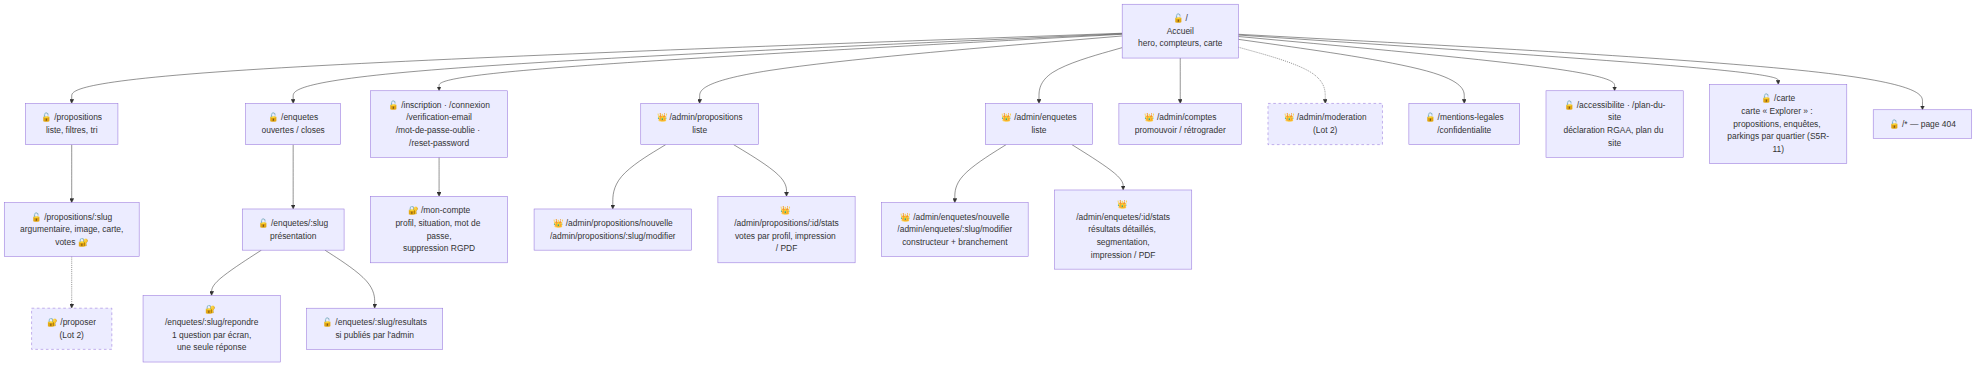
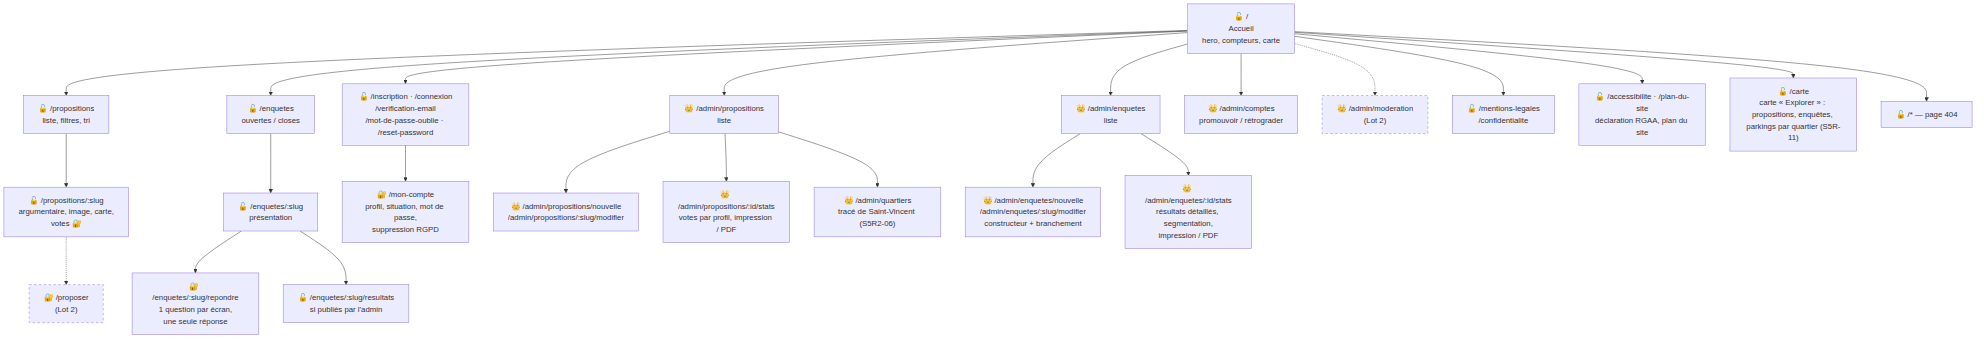
docs: S5R2-06 livrée — Saint-Vincent, outil de tracé, précision du 12/10

diff --git a/16-kanban-issues-complet.md b/16-kanban-issues-complet.md
@@ -44,6 +44,8 @@
 >
 > **S5R2-02 livrée** (12/10/2026) : table `OptionCondition` (migration `option_conditions`) ; moteur `surveyPath` (questions affichées ET options proposées ; question sans option proposée sautée ; choix non proposé ignoré), copie navigateur vérifiée **identique** par un test ; option non proposée refusée à l'envoi et en mode test (400) ; résultats : `offeredTo` (« proposée à N personnes ») ; constructeur : « + Proposer seulement si… » sous chaque option (questions antérieures seulement), nettoyage et déplacements tenant compte des conditions d'options ; modèles d'enquête : `showIf` sur une option ; options nommées pour les lecteurs d'écran.
 >
+> **S5R2-06 livrée** (12/10/2026) : quartier `SAINT_VINCENT` (migration `saint_vincent`, liste commune `api/src/lib/quartiers.js`) accepté partout — profil, zone d'une proposition, public visé, synchronisation ; « un autre quartier de Senlis (dont Saint-Vincent) » ; profils existants inchangés. Les contours sont désormais repérés par **quartier** (`properties.quartier`, `quartierOfFeature`) et non plus par code IRIS (deux quartiers partagent celui du centre). Outil `/admin/quartiers` : plan municipal en surimpression (image locale, transparence, calage), tracé au clic ou au clavier, découpage exact avec `polygon-clipping` (Saint-Vincent = centre INSEE ∩ tracé, Centre historique = centre − tracé ; débordement ignoré et mesuré — précision du 12/10), téléchargement du nouveau `iris-senlis.geojson` à placer dans le dépôt. **Reste à faire par Nath** : tracer Saint-Vincent et publier le fichier (tant qu'il n'est pas remplacé, tout le centre s'affiche comme Centre historique). Au passage : les boutons désactivés se voient enfin désactivés (tout le site).
+>
 > **Légende** : ✅ livré (mergé sur `dev`) · 🔶 partiellement livré · sans marque = à faire.
 >
 > **Gabarit d'issue** (à enregistrer comme template GitHub) : *Contexte* (lien cahier des charges) · *Critères d'acceptation* (cases à cocher) · *Definition of Done rappelée*.
@@ -207,7 +209,7 @@
 | **S5R2-12** | **`feat(client): modèles en premier — « Partir d'un modèle » placé en tête du formulaire d'enquête (avant le titre), et modèles de proposition (aménagement de l'espace public, mobilité et stationnement, végétalisation, animation ou événement) en tête du formulaire de proposition : titre, accroche et argumentaire structuré (contexte, ce qui changerait, pour qui, questions ouvertes) préremplis`** ✅ | **`lot:1` `type:feature` `zone:client`** | **`feat/templates-first`** | **1 j** | **J89** |
 | **S5R2-13** | **`feat(client): sauvegarde automatique des saisies en cours — l'enquête ou la proposition en cours de création ou de modification (admin, Admin-test) et les réponses déjà données à une enquête (citoyen, retour en arrière conservé) sont gardées dans le navigateur ; « Reprendre » ou « Repartir de zéro » au retour ; effacées après l'envoi, à la déconnexion et au bout de 7 jours ; jamais en mode test ; politique de confidentialité et registre mis à jour`** ✅ | **`lot:1` `type:feature` `zone:client` `rgpd`** | **`feat/autosave-drafts`** | **1 j** | **J90** |
 | **S5R2-02** | **`feat(api+bdd+client): options conditionnelles — une option n'apparaît que si l'une de certaines réponses précédentes a été choisie (OU) ; API, moteur navigateur, constructeur`** ✅ | **`lot:1` `type:feature` `zone:api` `zone:bdd` `zone:client`** | **`feat/conditional-options`** | **1,5 j** | **J91–J92** |
-| **S5R2-06** | **`feat(api+bdd+client): le centre en deux quartiers — « Centre historique » (ex-Centre-Sud du plan 2018) et « Quartier Saint-Vincent » (ex-Centre-Est – Saint-Vincent) ; contours tracés avec un outil admin d'après le plan municipal ; couleurs et autres quartiers inchangés`** | **`lot:1` `type:feature` `zone:api` `zone:bdd` `zone:client`** | **`feat/centre-saint-vincent`** | **2 j** | **J92–J94** |
+| **S5R2-06** | **`feat(api+bdd+client): le centre en deux quartiers — « Centre historique » (ex-Centre-Sud du plan 2018) et « Quartier Saint-Vincent » (ex-Centre-Est – Saint-Vincent) ; contours tracés avec un outil admin d'après le plan municipal ; couleurs et autres quartiers inchangés`** ✅ | **`lot:1` `type:feature` `zone:api` `zone:bdd` `zone:client`** | **`feat/centre-saint-vincent`** | **2 j** | **J92–J94** |
 | **S5R2-03** | **`feat(data): enquête stationnement v3.1 — relecture complète pour la présentation à la mairie ; EDPM, activités en 6 familles + « Autre » → « Laquelle ? » facultative, « voitures ou motos », bus régional pour les résidents d'une autre ville (option conditionnelle), Saint-Vincent hors du périmètre ; seed --remplacer (dev)`** | **`lot:1` `type:feature` `zone:api`** | **`feat/parking-survey-v3-1`** | **1 j** | **J94–J95** |
 | **S5R2-04** | **`feat(client): résultats d'enquête avec Chart.js (barres, secteurs) — chargé seulement sur la page des résultats, nombres en texte conservés à côté (accessibilité)`** | **`lot:1` `type:feature` `zone:client`** | **`feat/results-chartjs`** | **1 j** | **J95–J96** |
 | **S5R2-05** | **`feat(api+bdd+client): parkings gérés par l'administration — table Parking (nom, places, régime : gratuit / zone rouge / zone verte / gare / durée limitée, recharge existante ou en projet, PMR), écran admin avec placement sur la carte ; données initiales croisant le plan 2023 (noms, places) et le guide Indigo 2025 (zones, tarifs) ; légende des tarifs 2025 ; couche OpenStreetMap retirée`** | **`lot:1` `type:feature` `zone:api` `zone:bdd` `zone:client`** | **`feat/managed-parkings`** | **3 j** | **J96–J99** |

diff --git a/03-dictionnaire-de-donnees.md b/03-dictionnaire-de-donnees.md
@@ -50,7 +50,7 @@
 | lat / lng | Float | NULL | Point d'ancrage du marqueur sur la carte |
 | geoJson | Json | NULL | Réglage avancé : tracé libre (GeoJSON, format natif Leaflet) — effaçable (`null`) depuis S5R-10 |
 | zoneWholeCity | Boolean | défaut false | Zone concernée : toute la ville (S5R-10) |
-| zoneQuartiers | Quartier[] | défaut `[]` | Zone concernée : quartiers IRIS (centre historique compris), contours affichés depuis `iris-senlis.geojson` ; exclusif avec `zoneWholeCity` (S5R-10) |
+| zoneQuartiers | Quartier[] | défaut `[]` | Zone concernée : quartiers (Centre historique et Saint-Vincent compris), contours affichés depuis `iris-senlis.geojson` (propriété `quartier` de chaque contour, S5R2-06) ; exclusif avec `zoneWholeCity` (S5R-10) |
 | imagePath | String | NULL | Chemin **relatif** de l'image (`/uploads/proposals/<uuid>.webp`), jamais l'URL complète — recompressée en WebP 1200 px par Sharp (métadonnées EXIF/GPS supprimées au passage) |
 | authorId | UUID | FK → USER, NULL, SET NULL | Auteur — anonymisé si le compte est supprimé |
 | moderationNote | String | NULL | Motif communiqué à l'auteur en cas de rejet (Lot 2) |
@@ -194,7 +194,7 @@
 | QuestionType | CHOIX_UNIQUE, CHOIX_MULTIPLE, NOMBRE, OUI_NON, TEXTE_LIBRE | Type de saisie d'une question |
 | TokenType | VERIFY_EMAIL, RESET_PASSWORD, TWO_FACTOR_LOGIN | Nature d'un jeton email (lien ou code 2FA admin) |
 | Situation | CENTRE_RESIDENT, AUTRE_QUARTIER, HORS_SENLIS | Résidence déclarée (`CENTRE_COMMERCANT` retiré le 22/09/2026 : redondant avec l'axe travail) |
-| Quartier | CENTRE_HISTORIQUE, BRICHEBAY, BON_SECOURS, VAL_AUNETTE_GATELIERE, ZONE_INDUSTRIELLE, VILLEVERT, JARDINIERS | Quartiers IRIS INSEE (`CENTRE_HISTORIQUE` utilisé uniquement pour le lieu de travail) |
+| Quartier | CENTRE_HISTORIQUE, SAINT_VINCENT, BRICHEBAY, BON_SECOURS, VAL_AUNETTE_GATELIERE, ZONE_INDUSTRIELLE, VILLEVERT, JARDINIERS | 8 quartiers : les 7 IRIS INSEE, le « Centre Ville » coupé en deux d'après le plan municipal de 2018 (S5R2-06) — `CENTRE_HISTORIQUE` = le seul Centre historique (ex-« Centre-Sud »), `SAINT_VINCENT` = Quartier Saint-Vincent (ex-« Centre-Est – Saint-Vincent »), un « autre quartier » pour la résidence. `CENTRE_HISTORIQUE` n'est pas un quartier de résidence (couvert par `Situation.CENTRE_RESIDENT`). Liste commune : `api/src/lib/quartiers.js` |
 | TravailType | COMMERCANT, SALARIE | Rôle dans l'activité exercée à Senlis |
 
 ## Données personnelles — classement RGPD (rappel)

diff --git a/29-retours-recette-2026-10-08.md b/29-retours-recette-2026-10-08.md
@@ -196,6 +196,7 @@ Le reste (débat et modération, propositions citoyennes, notifications, multili
 ### 8.1 Le centre en deux quartiers (S5R2-06)
 
 - **Données** : un nouveau quartier `SAINT_VINCENT` ; `CENTRE_HISTORIQUE` désigne désormais le seul Centre historique (ex-Centre-Sud). Les autres quartiers et leurs couleurs ne changent pas.
+- **Précision du 12/10** : le plan de 2018 étend Saint-Vincent vers l'est, sur des parties que l'INSEE range dans « Zone industrielle » et « Jardiniers ». Décision : on **coupe au contour du centre** — Saint-Vincent = la partie du « Centre Ville » INSEE qui n'est pas le Centre historique ; les autres quartiers ne bougent pas, aucun chevauchement.
 - **Contours** : l'INSEE ne découpe pas le centre, et le plan de 2018 est un PDF sans coordonnées. Un **outil admin de tracé** (clic sur la carte, sommet par sommet, avec le plan municipal en surimpression semi-transparente et réglable) produit les deux contours, enregistrés dans le fichier des quartiers. Les contours officiels du service SIG, s'ils sont obtenus plus tard, les remplaceront sans rien changer d'autre.
 - **Profils existants** : une personne qui a déclaré habiter « le centre historique » habite peut-être Saint-Vincent. On ne peut pas le deviner : son profil reste « centre historique », et l'enquête lui fait confirmer sa situation (préremplie, modifiable).
 - **Enquête stationnement** : « Où résidez-vous ? Le Centre historique / un autre quartier de Senlis (dont Saint-Vincent) / une autre ville » ; le public visé et les questions « centre » ne concernent plus que le Centre historique.

diff --git a/08-merise-mcd-mld-mpd.md b/08-merise-mcd-mld-mpd.md
@@ -209,7 +209,7 @@ CREATE TYPE "QuestionType"   AS ENUM ('CHOIX_UNIQUE','CHOIX_MULTIPLE',
 CREATE TYPE "Situation"      AS ENUM ('CENTRE_RESIDENT', 'AUTRE_QUARTIER', 'HORS_SENLIS');
 CREATE TYPE "Quartier"       AS ENUM ('BRICHEBAY','BON_SECOURS','VAL_AUNETTE_GATELIERE',
                                       'ZONE_INDUSTRIELLE','VILLEVERT','JARDINIERS',
-                                      'CENTRE_HISTORIQUE');
+                                      'CENTRE_HISTORIQUE','SAINT_VINCENT');  -- SAINT_VINCENT : S5R2-06
 CREATE TYPE "TravailType"    AS ENUM ('COMMERCANT', 'SALARIE');
 
 CREATE TABLE "User" (

diff --git a/14-sitemap.md b/14-sitemap.md
@@ -27,6 +27,7 @@ flowchart TD
     ADME --> ADMEF["👑 /admin/enquetes/nouvelle<br/>/admin/enquetes/:slug/modifier<br/>constructeur + branchement"]
     ADME --> ADMS["👑 /admin/enquetes/:id/stats<br/>résultats détaillés, segmentation,<br/>impression / PDF"]
     HOME --> ADMC["👑 /admin/comptes<br/>promouvoir / rétrograder"]
+    ADMP --> ADMQ["👑 /admin/quartiers<br/>tracé de Saint-Vincent (S5R2-06)"]
     HOME -.-> ADMM["👑 /admin/moderation<br/>(Lot 2)"]:::lot2
 
     HOME --> LEGAL["🔓 /mentions-legales<br/>/confidentialite"]
